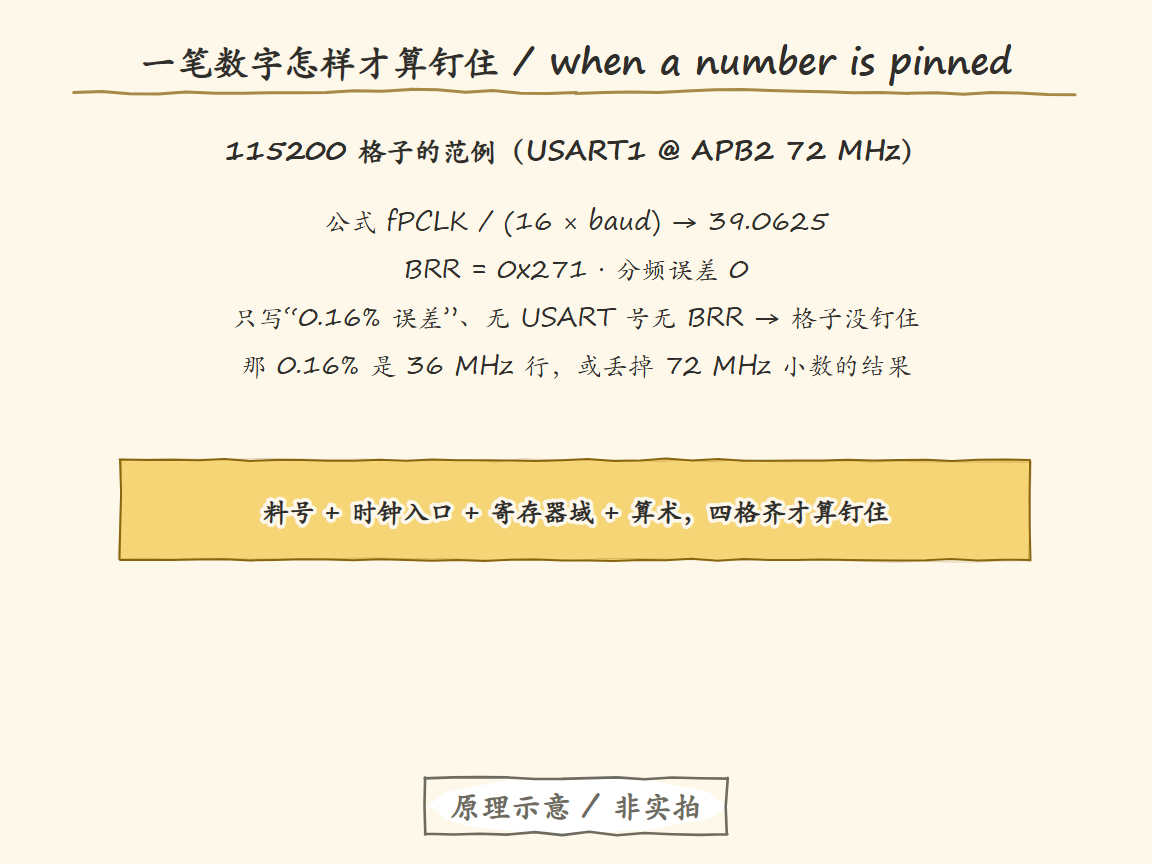
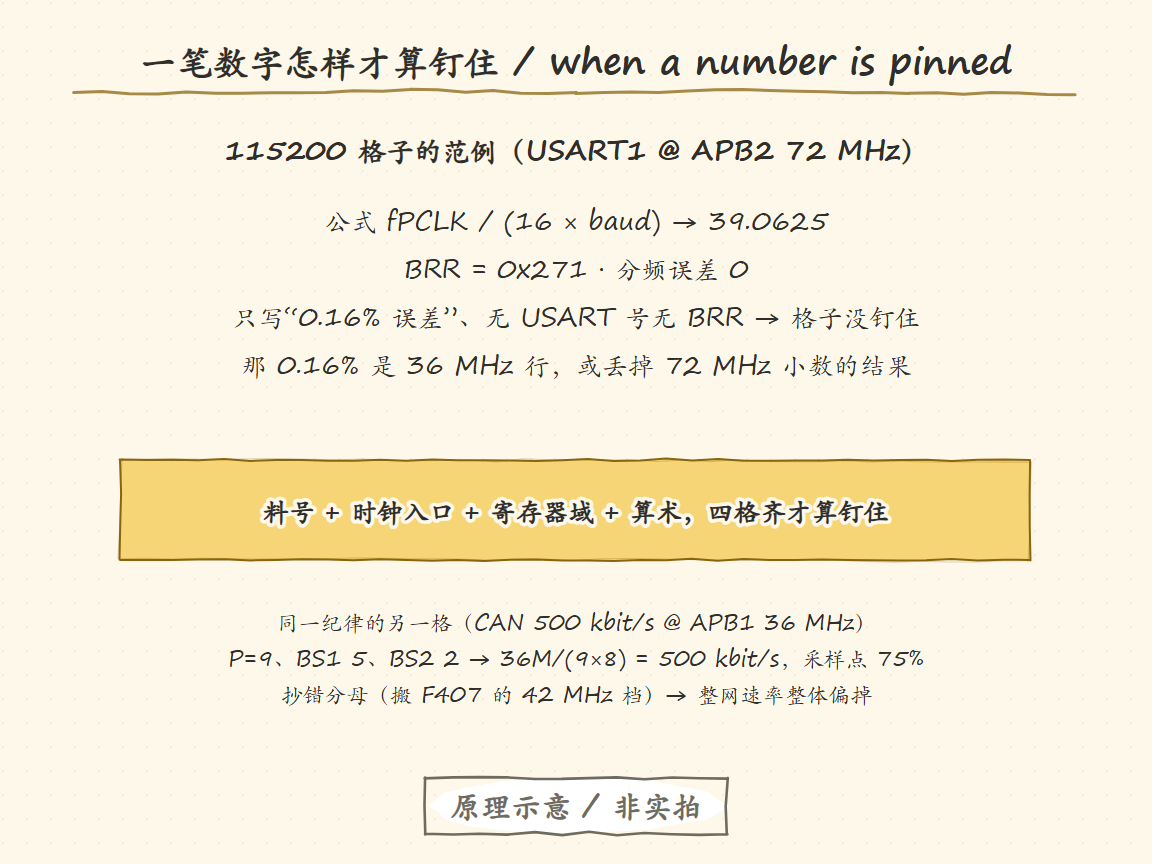
book(figs): fill the lower halves of two sparse plates
app-e-pin-number gains the paired 500 kbit/s CAN grid sample (same
four-cell discipline, wrong-denominator warning); ch13-brr-error-budget
gains a three-step budget strip (compute BRR and error, check against
5.882% total / 2.941% per side, keep the remainder for drift and jitter)
with the footer moved to the standard position. Both were verified
independent renders after a bad copy-pair was caught by a pixel probe.

Changed region(s): [[0.1875, 0.6875, 0.8125, 0.8125]]

diff --git a/tools/handraw_track/fig_v2e.py b/tools/handraw_track/fig_v2e.py
@@ -460,9 +460,17 @@ def ch13_brr_error_budget():
     f.text(88, 494, "经验值「±2%-3%」的出处就是这条 8.5 位推导，不含温漂与走线延迟",
            size=13.5, color=MUTED)
 
-    f.htext(64, 560, "先算 8.5 位再挑 PCLK——量化吃掉预算的六成，就没有余量了",
+    f.panel(64, 530, 1024, 100, GRAY_FILL, amp=1.6)
+    f.rect(64, 530, 1024, 100, color=MUTED, sw=1.6, fill=None, amp=1.6)
+    f.text(88, 562, "把预算走成三步", size=15.5, color=INK, weight="bold")
+    f.text(88, 592, "① 算 BRR = round(PCLK/baud) 与实际误差　② 对照总容差 5.882%（每端 2.941%）",
+           size=14.5, color=INK, font=MONO)
+    f.text(88, 618, "③ 余量留给温漂与采样抖动——不为零就换 PCLK 或降波特率",
+           size=14.5, color=INK, font=MONO)
+
+    f.htext(64, 700, "先算 8.5 位再挑 PCLK——量化吃掉预算的六成，就没有余量了",
             size=21, color=INK, weight="bold", hl=True)
-    f.text(576, 590,
+    f.text(576, 730,
            "读数取自本章 S7 八行误差表（宿主脚本口径）；推导示意。",
            size=14, color=MUTED, anchor="middle")
     return f

diff --git a/tools/handraw_track/fig_appendices.py b/tools/handraw_track/fig_appendices.py
@@ -397,6 +397,11 @@ def app_e_pin_number():
     f.rect(120, 460, 910, 100, color=AMBER_STROKE, fill=AMBER_FILL, sw=2)
     f.htext(W / 2, 520, "料号 + 时钟入口 + 寄存器域 + 算术，四格齐才算钉住",
             size=26, color=INK, anchor="middle", weight="bold")
+    f.multi(W / 2, 630, [
+        "同一纪律的另一格（CAN 500 kbit/s @ APB1 36 MHz）",
+        "P=9、BS1 5、BS2 2 → 36M/(9×8) = 500 kbit/s，采样点 75%",
+        "抄错分母（搬 F407 的 42 MHz 档）→ 整网速率整体偏掉",
+    ], size=22, color=INK, anchor="middle", lh=36)
     return f
 
 
